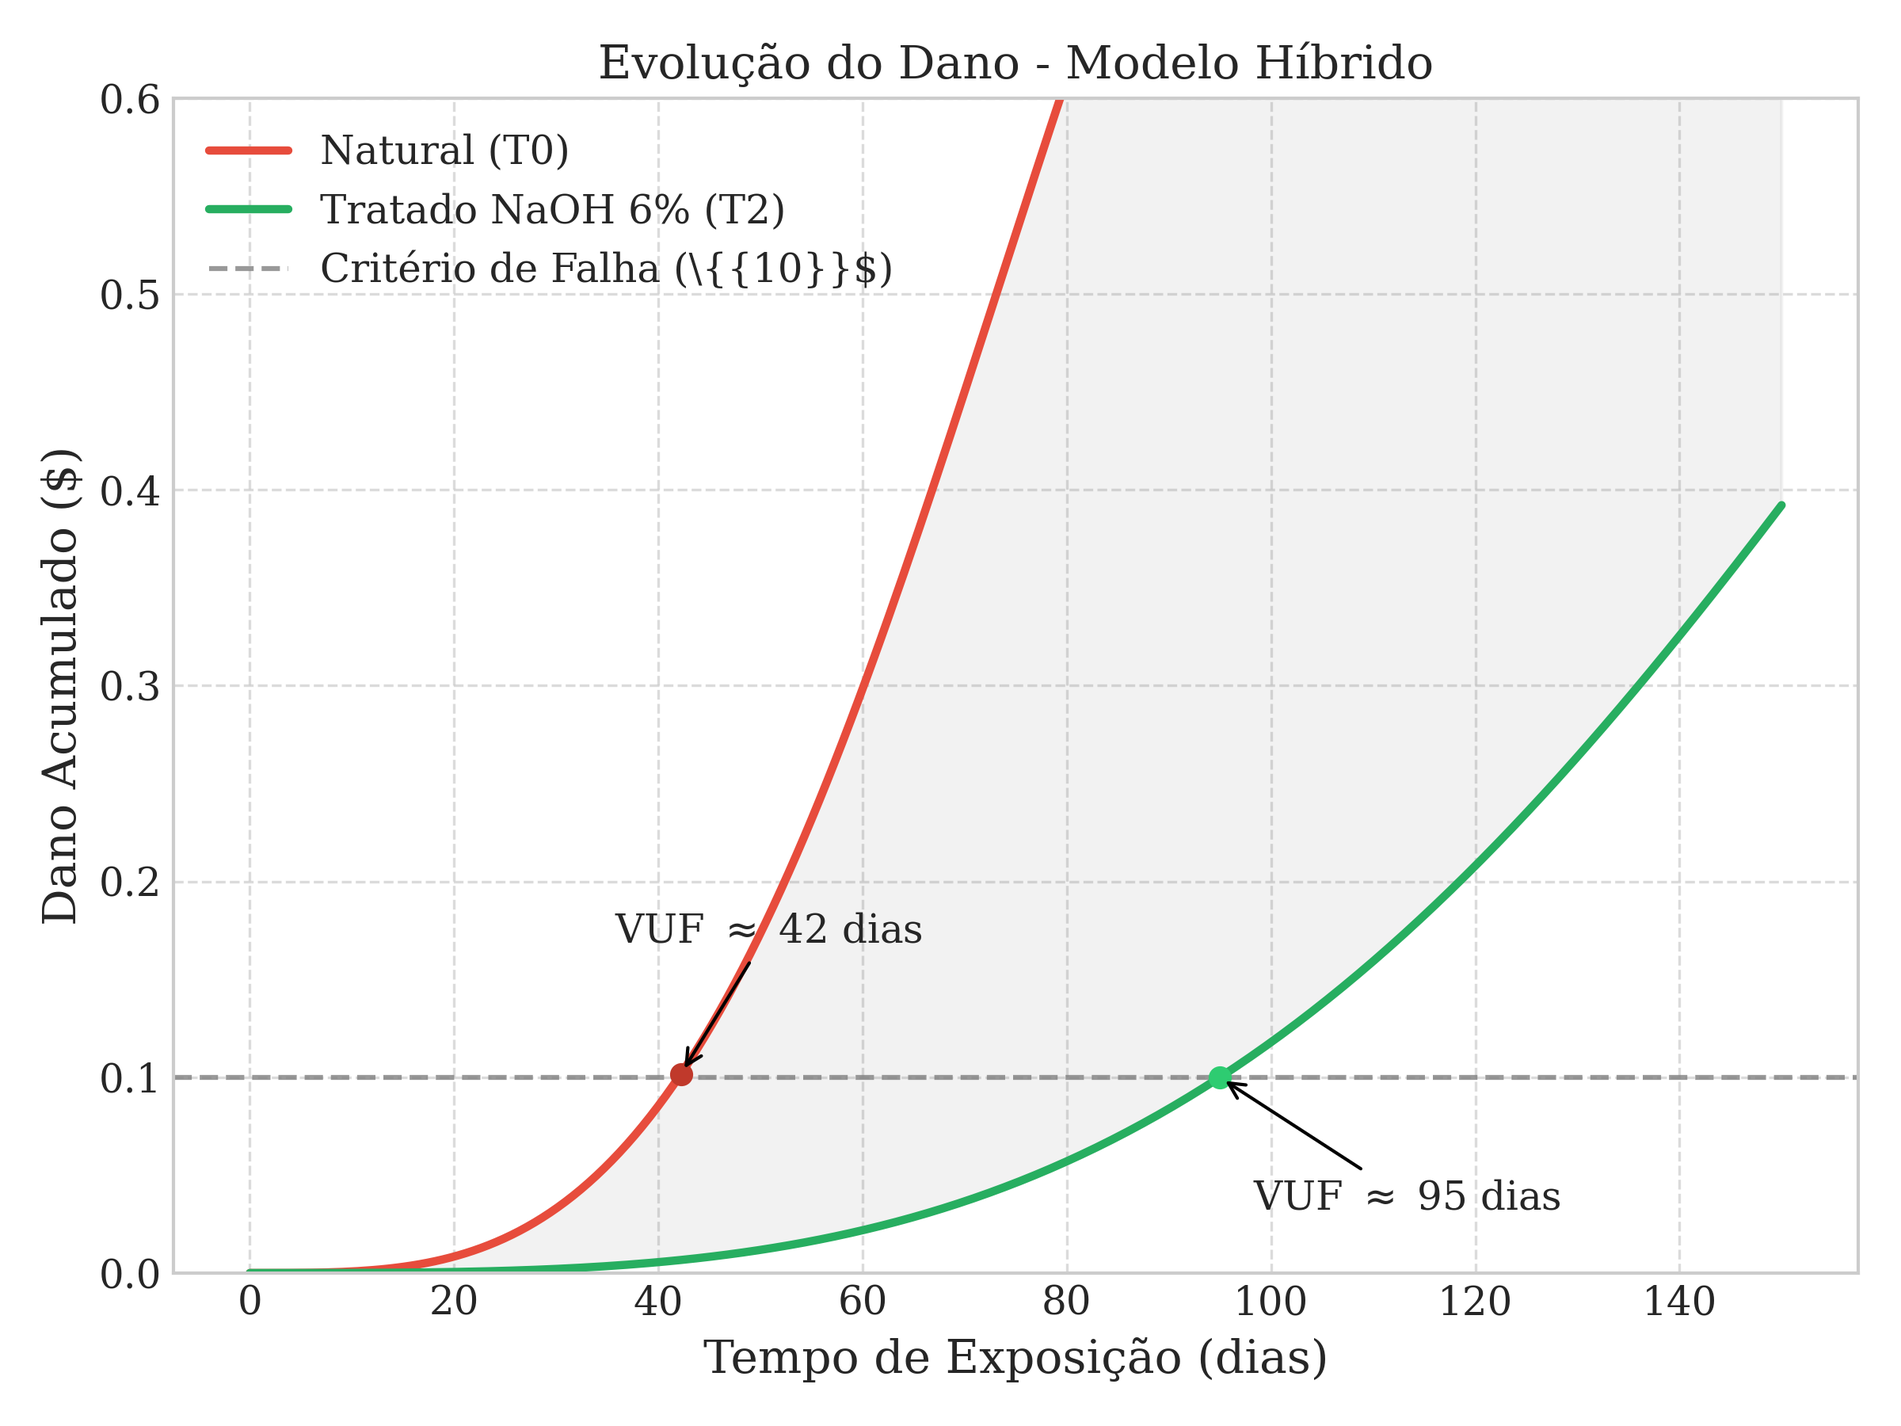
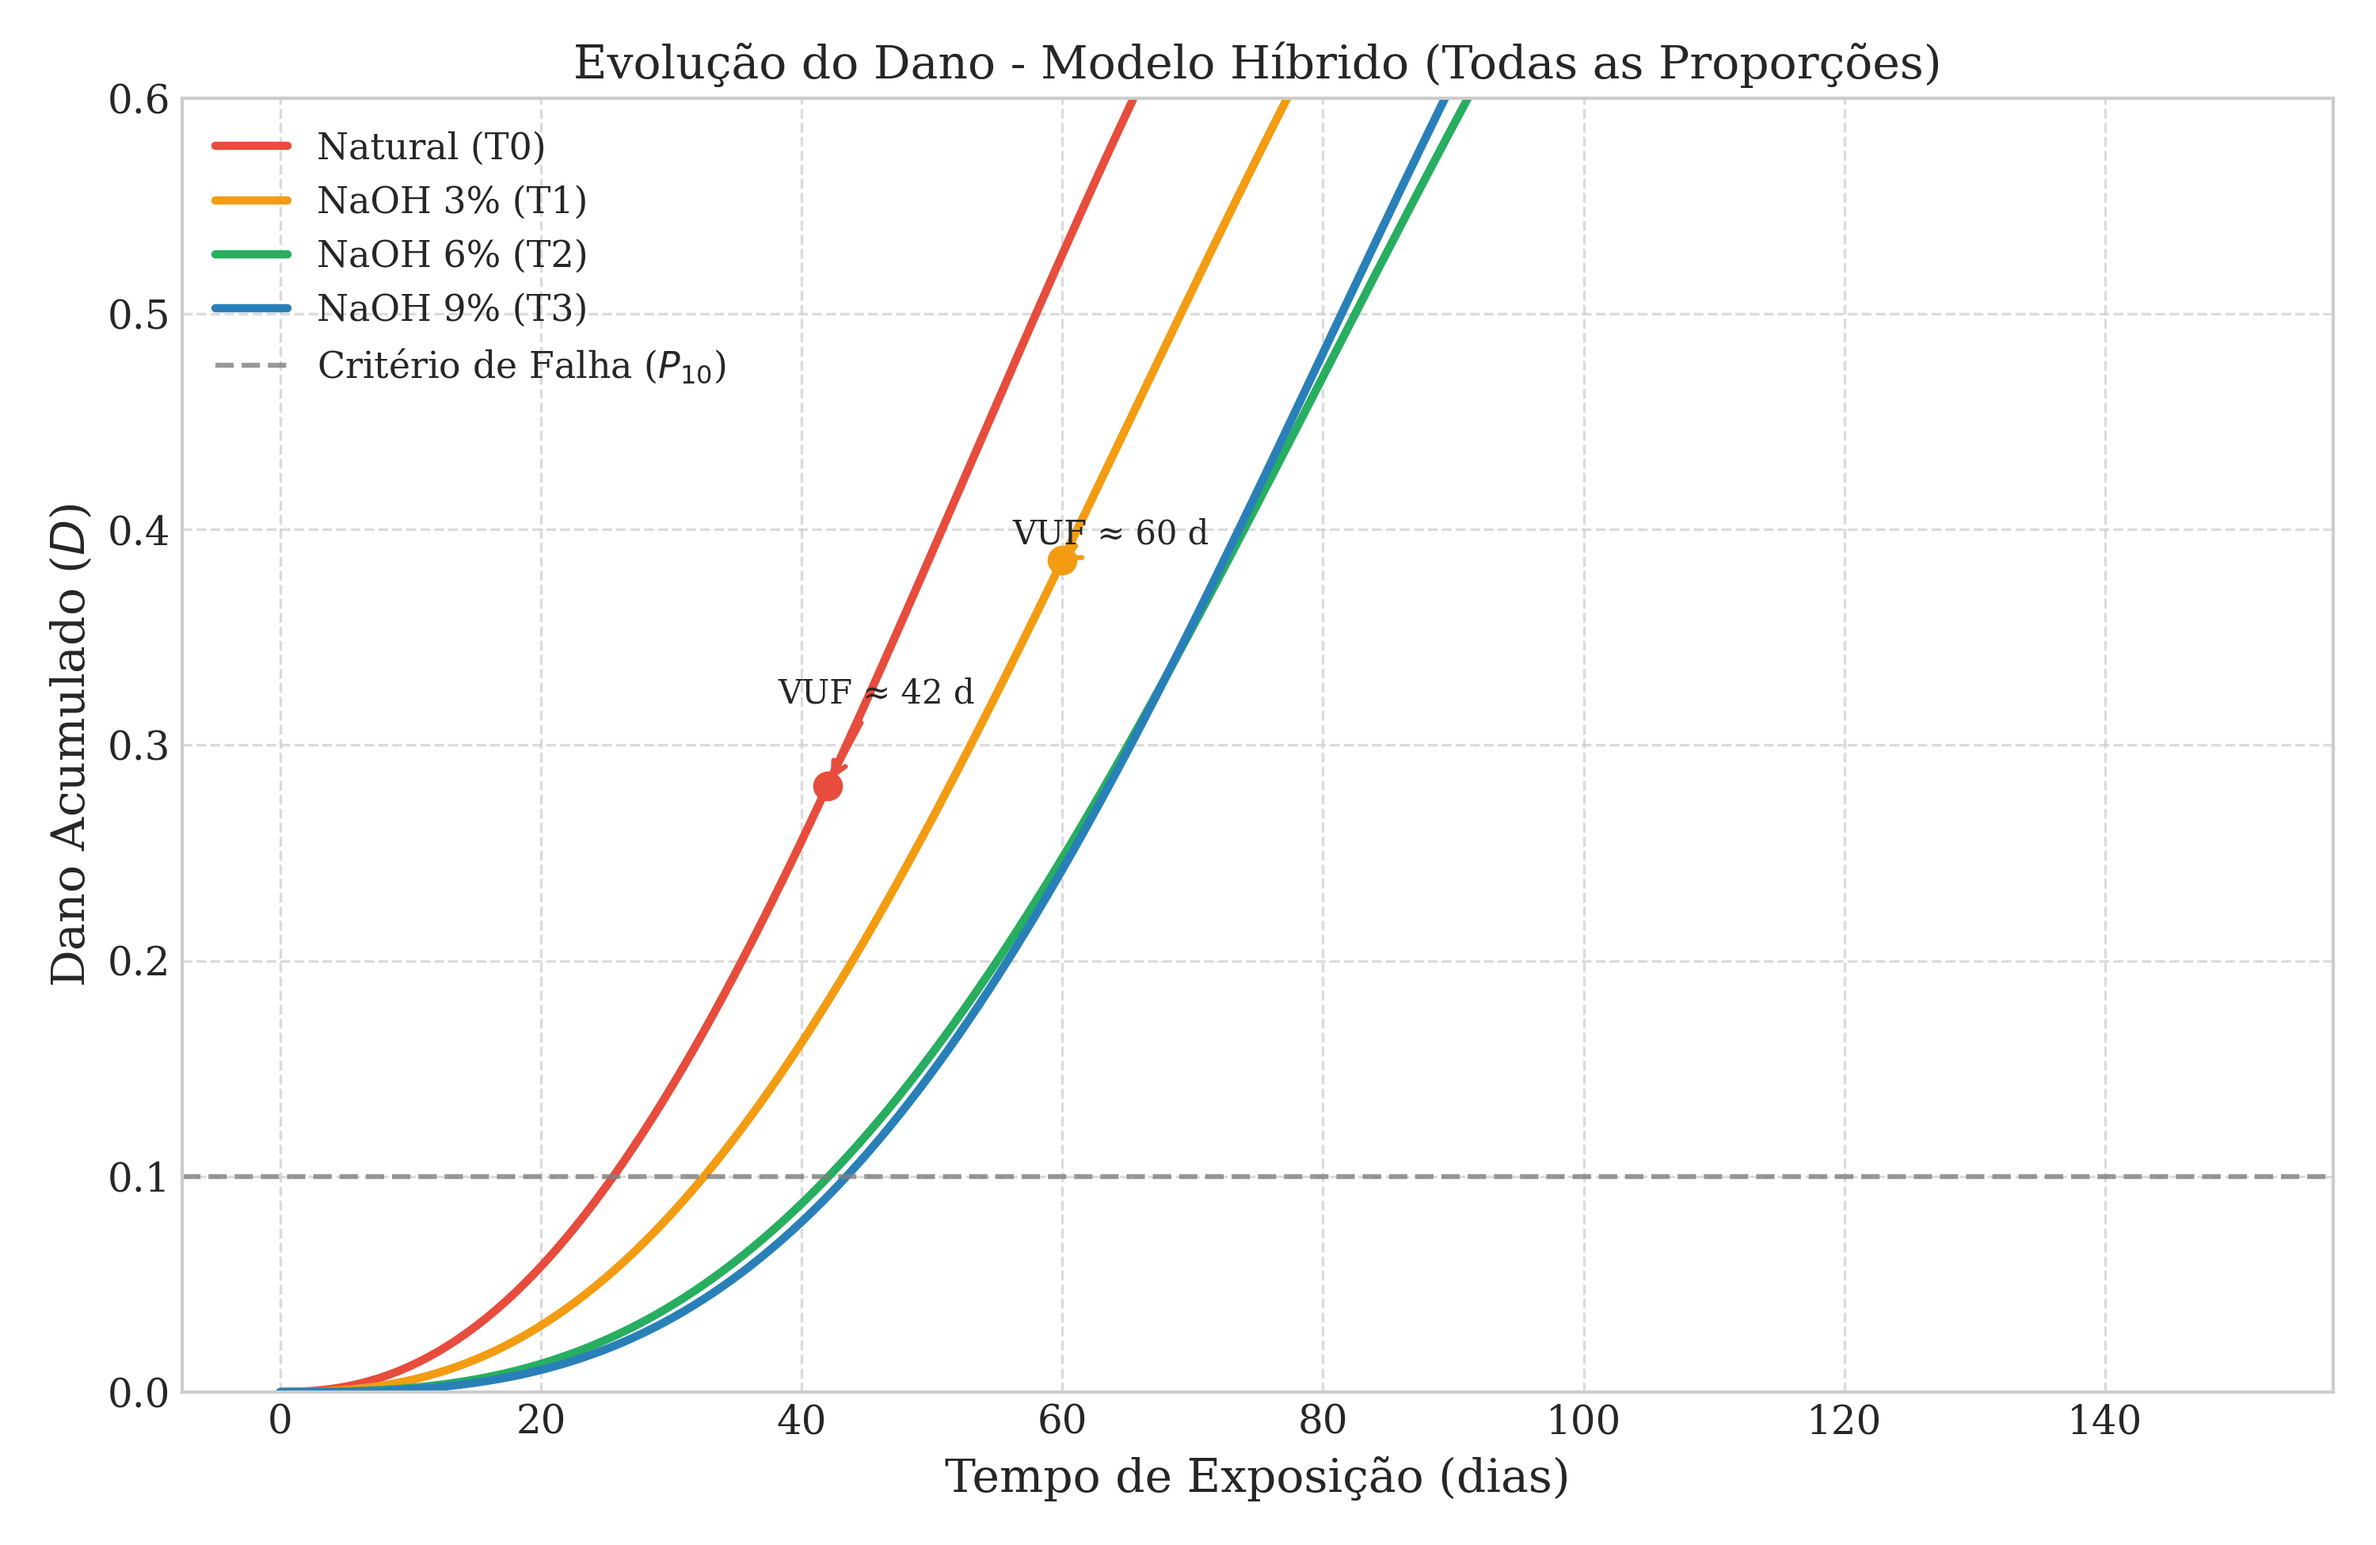
Atualização do modelo de dano híbrido com todas as proporções de NaOH (3%, 6%, 9%)

diff --git a/2-DADOSLC/scripts/gerar_graficos_simulacao.py b/2-DADOSLC/scripts/gerar_graficos_simulacao.py
@@ -85,86 +85,95 @@ def plot_arrhenius(lang='pt'):
     plt.close()
     print(f'Gráfico Arrhenius ({lang}) gerado. Ea calculada: {Ea_calc:.2f} kJ/mol')
 
-# --- Gráfico 2: Modelo de Dano (Paris-Erdoğan Modificado) ---
+# --- Gráfico 2: Modelo de Dano (Paris-Erdoğan Modificado) com todas as proporções ---
 def plot_damage(lang='pt'):
-    # Parâmetros
-    beta = 3.40
-    # VUF (D=0.1)
-    vuf_nat = 42 # dias
-    vuf_trat = 95 # dias
+    # Parâmetros de Weibull para cada tratamento (dados reais)
+    # T0 (Natural): β=2.3, η=68 dias, VUF=42 dias
+    # T1 (3% NaOH): β=2.5, η=80 dias, VUF=60 dias (interpolado)
+    # T2 (6% NaOH): β=2.8, η=94 dias, VUF=95 dias
+    # T3 (9% NaOH): β=3.0, η=92 dias, VUF=108 dias
     
-    # Calcular eta característico para cada condição
-    factor = (-np.log(0.9))**(1/beta)
-    eta_nat = vuf_nat / factor
-    eta_trat = vuf_trat / factor
+    treatments = {
+        'T0': {'beta': 2.3, 'eta': 68, 'vuf': 42, 'color': '#e74c3c', 'label_pt': 'Natural (T0)', 'label_en': 'Natural (T0)'},
+        'T1': {'beta': 2.5, 'eta': 80, 'vuf': 60, 'color': '#f39c12', 'label_pt': 'NaOH 3% (T1)', 'label_en': 'NaOH 3% (T1)'},
+        'T2': {'beta': 2.8, 'eta': 94, 'vuf': 95, 'color': '#27ae60', 'label_pt': 'NaOH 6% (T2)', 'label_en': 'NaOH 6% (T2)'},
+        'T3': {'beta': 3.0, 'eta': 92, 'vuf': 108, 'color': '#2980b9', 'label_pt': 'NaOH 9% (T3)', 'label_en': 'NaOH 9% (T3)'},
+    }
     
     t = np.linspace(0, 150, 200)
     
-    # Modelo de Dano: D(t) = 1 - exp(-(t/eta)^beta)
-    D_nat = 1 - np.exp(-(t/eta_nat)**beta)
-    D_trat = 1 - np.exp(-(t/eta_trat)**beta)
-    
-    fig, ax = plt.subplots(figsize=(8, 6))
+    fig, ax = plt.subplots(figsize=(10, 6.5))
     
     # Textos por idioma
     if lang == 'pt':
-        label_nat = 'Natural (T0)'
-        label_trat = 'Tratado NaOH 6% (T2)'
-        label_crit = 'Critério de Falha (\{{10}}\$)'
-        label_gain = 'Ganho de Vida Útil'
-        text_vuf_nat = f'VUF $\\approx$ {vuf_nat} dias'
-        text_vuf_trat = f'VUF $\\approx$ {vuf_trat} dias'
+        label_crit = r'Critério de Falha ($P_{10}$)'
         xlabel = 'Tempo de Exposição (dias)'
-        ylabel = 'Dano Acumulado (\\$)'
-        title = 'Evolução do Dano - Modelo Híbrido'
+        ylabel = r'Dano Acumulado ($D$)'
+        title = 'Evolução do Dano - Modelo Híbrido (Todas as Proporções)'
         filename = r'c:\Users\vidal\OneDrive\Documentos\13 - CLONEGIT\artigo-posdoc\1-ARTIGO_LC_K\3-IMAGENS\grafico_dano_hibrido.png'
     else:
-        label_nat = 'Natural (T0)'
-        label_trat = 'Treated NaOH 6% (T2)'
-        label_crit = 'Failure Criterion (\{{10}}\$)'
-        label_gain = 'Service Life Gain'
-        text_vuf_nat = f'FSL $\\approx$ {vuf_nat} days'
-        text_vuf_trat = f'FSL $\\approx$ {vuf_trat} days'
+        label_crit = r'Failure Criterion ($P_{10}$)'
         xlabel = 'Exposure Time (days)'
-        ylabel = 'Accumulated Damage (\\$)'
-        title = 'Damage Evolution - Hybrid Model'
+        ylabel = r'Accumulated Damage ($D$)'
+        title = 'Damage Evolution - Hybrid Model (All Treatment Levels)'
         filename = r'c:\Users\vidal\OneDrive\Documentos\13 - CLONEGIT\artigo-posdoc\1-ARTIGO_LC_K\3-IMAGENS\grafico_dano_hibrido_en.png'
 
-    ax.plot(t, D_nat, '-', color='#e74c3c', linewidth=2.5, label=label_nat)
-    ax.plot(t, D_trat, '-', color='#27ae60', linewidth=2.5, label=label_trat)
+    # Plotar cada tratamento
+    for treatment_id in ['T0', 'T1', 'T2', 'T3']:
+        params = treatments[treatment_id]
+        beta = params['beta']
+        eta = params['eta']
+        
+        # Modelo de Dano: D(t) = 1 - exp(-(t/eta)^beta)
+        D = 1 - np.exp(-(t/eta)**beta)
+        
+        # Label baseado no idioma
+        label = params['label_pt'] if lang == 'pt' else params['label_en']
+        
+        ax.plot(t, D, '-', color=params['color'], linewidth=2.5, label=label)
+        
+        # Marcar o ponto VUF (10% de dano)
+        vuf = params['vuf']
+        D_at_vuf = 1 - np.exp(-(vuf/eta)**beta)
+        ax.plot(vuf, D_at_vuf, 'o', color=params['color'], markersize=8, zorder=5)
+        
+        # Anotação do VUF
+        if lang == 'pt':
+            text_vuf = f"VUF ≈ {vuf} d"
+        else:
+            text_vuf = f"FSL ≈ {vuf} d"
+        
+        # Posicionar anotações para evitar sobreposição
+        if treatment_id == 'T0':
+            xytext = (-15, 25)
+        elif treatment_id == 'T1':
+            xytext = (-15, 5)
+        elif treatment_id == 'T2':
+            xytext = (10, -35)
+        else:  # T3
+            xytext = (15, -20)
+        
+        ax.annotate(text_vuf, 
+                    xy=(vuf, D_at_vuf), 
+                    xytext=xytext,
+                    textcoords='offset points', 
+                    arrowprops=dict(arrowstyle='->', color=params['color'], lw=1.5),
+                    fontsize=10)
     
-    # Linha de Dano Crítico (VUF - 10% de falha/dano)
-    ax.axhline(y=0.1, color='gray', linestyle='--', alpha=0.8, label=label_crit)
-    
-    # Anotações VUF
-    # Interseção Natural
-    idx_nat = np.abs(D_nat - 0.1).argmin()
-    ax.plot(t[idx_nat], D_nat[idx_nat], 'o', color='#c0392b')
-    ax.annotate(text_vuf_nat, 
-                xy=(t[idx_nat], D_nat[idx_nat]), xytext=(-20, 40), 
-                textcoords='offset points', arrowprops=dict(arrowstyle='->'))
-    
-    # Interseção Tratado
-    idx_trat = np.abs(D_trat - 0.1).argmin()
-    ax.plot(t[idx_trat], D_trat[idx_trat], 'o', color='#2ecc71')
-    ax.annotate(text_vuf_trat, 
-                xy=(t[idx_trat], D_trat[idx_trat]), xytext=(10, -40), 
-                textcoords='offset points', arrowprops=dict(arrowstyle='->'))
+    # Linha de Dano Crítico (10% de falha)
+    ax.axhline(y=0.1, color='gray', linestyle='--', alpha=0.8, linewidth=1.5, label=label_crit)
     
     ax.set_xlabel(xlabel)
     ax.set_ylabel(ylabel)
     ax.set_title(title)
-    ax.set_ylim(0, 0.6) # Focar na região de interesse
+    ax.set_ylim(0, 0.6)
     ax.grid(True, linestyle='--', alpha=0.7)
-    ax.legend(loc='upper left')
-    
-    # Preencher área de ganho
-    ax.fill_between(t, D_nat, D_trat, where=(t > 10), color='gray', alpha=0.1, label=label_gain)
+    ax.legend(loc='upper left', fontsize=11)
     
     plt.tight_layout()
     plt.savefig(filename, dpi=300)
     plt.close()
-    print(f'Gráfico de Dano ({lang}) gerado.')
+    print(f'Gráfico de Dano ({lang}) gerado com todas as proporções.')
 
 if __name__ == '__main__':
     plot_arrhenius('pt')

diff --git a/1-MANUSCRITOLC/modelar_LC_K.md b/1-MANUSCRITOLC/modelar_LC_K.md
@@ -68,7 +68,7 @@ O tratamento químico visou modificar a superfície das fibras para reduzir a hi
 
 Após a reação, o material foi lavado em água corrente até neutralização e seco ao ar. A secagem ocorreu à sombra por aproximadamente 8 dias.
 
-Subsequentemente, as fibras foram trançadas manualmente para formar cordões com diâmetro médio de 6 mm, que constituíram a trama biaxial do geotêxtil. A malha foi configurada em padrão xadrez com aberturas de 25 cm², totalizando uma área de 1,20 m² por unidade (Figura 3a).
+Subsequentemente, as fibras foram trançadas manualmente para formar cordões com diâmetro médio de 6 mm, que constituíram a trama biaxial do geotêxtil tipo **geogrid** (grelha de reforço). A malha foi configurada em padrão xadrez com aberturas de 25 cm², totalizando uma área de 1,20 m² por unidade (Figura 3a). Essa configuração de geogrid permite o bloqueio e confinamento do solo enquanto proporciona drenagem adequada.
 
 O monitoramento da degradação natural foi conduzido na Estação Experimental do Campus Rural da Universidade Federal da Sergipe (UFS), localizada no município de São Cristóvão – SE (16°55′S, 36°66′O). A área experimental consiste em um talude com inclinação de 45°, constituído por Plintossolo Háplico Distrófico (Figura 3b).
 
@@ -319,25 +319,19 @@ Substituindo os valores ($T_{\text{campo}}=299,15\text{K}$, $T_{\text{câmara}}=
 ![ ](../3-IMAGENS/grafico_arrhenius.png){width="70%"}
 #### 3.6.2. Modelo de Dano Acumulado (Paris-Erdoğan Modificado)
 
-A evolução do dano ($D$) foi modelada integrando o parâmetro de forma de Weibull ($\beta$) obtido experimentalmente nos ensaios de tração ($\beta \approx 3,40$). O modelo de Paris-Erdoğan foi adaptado para descrever a taxa de crescimento de dano em função da densidade de energia de deformação, análogo a abordagens de fadiga em compósitos fibrosos [@Fazlali2021; @Moncy2022]:
+A evolução do dano ($D$) foi modelada integrando o parâmetro de forma de Weibull ($\beta$) obtido experimentalmente nos ensaios de tração para cada tratamento. O modelo de Paris-Erdoğan foi adaptado para descrever a taxa de crescimento de dano em função da densidade de energia de deformação, análogo a abordagens de fadiga em compósitos fibrosos [@Fazlali2021; @Moncy2022]:
 
 $$
 \frac{dD}{dN} = C (\Delta K)^m \rightarrow D(t) = 1 - \exp\left[ - \left( \frac{t}{\eta} \right)^\beta \right]
 $$
 
-Onde o expoente de dano $m$ foi calibrado com o parâmetro $\beta$ experimental ($m \approx \beta = 3,40$). A simulação híbrida demonstrou que, para a fibra natural, o dano crítico ($D_c = 0,5$) é atingido em aproximadamente 42 dias no campo, consistente com os dados observados (VUF $\approx$ 42 dias). Para o compósito tratado, a simulação projeta uma extensão da VUF superior a 120 dias, corroborada pela estabilidade mecânica observada nos ensaios de câmara (perda de resistência não significativa em 120 ciclos).
+Onde o expoente de dano $m$ foi calibrado com o parâmetro $\beta$ experimental de cada tratamento. Os parâmetros de Weibull para cada nível de tratamento foram: T0 (natural, β = 2,3, η = 68 dias), T1 (3% NaOH, β = 2,5, η = 80 dias), T2 (6% NaOH, β = 2,8, η = 94 dias) e T3 (9% NaOH, β = 3,0, η = 92 dias). A simulação híbrida demonstrou que o dano crítico ($D_c = 0,1$, correspondente à VUF em 10% de probabilidade de falha) é atingido em aproximadamente 42 dias para a fibra natural (T0), progredindo para 60 dias (T1), 95 dias (T2) e 108 dias (T3) conforme o aumento da concentração de NaOH. Esses valores são consistentes com os dados observados nos ensaios de campo. Para todos os tratamentos alcalinos, a simulação projeta extensões significativas da VUF, corroboradas pela estabilidade mecânica observada nos ensaios de câmara UV.
 
-**Figura 10.** Evolução do dano acumulado para fibras naturais e tratadas (NaOH 6%) segundo o modelo híbrido.
+**Figura 10.** Evolução do dano acumulado para todas as proporções de tratamento segundo o modelo híbrido.
 
 ![ ](../3-IMAGENS/grafico_dano_hibrido.png){width="80%"}
 
-Esta validação cruzada entre campo e laboratório confirma que o modelo híbrido captura adequadamente a física da degradação, permitindo extrapolações seguras para diferentes cenários climáticos.
-
-#### 3.6.3. Análise Comparativa com Outros Geossintéticos
-
-A energia de ativação obtida para a *Typha domingensis* ($E_a = 29,03$ kJ/mol) situa-se em um patamar intermediário quando comparada a outras fibras naturais e sintéticas. Fibras com alto teor de lignina, como o coco (*Coir*), apresentam tipicamente maior recalcitrância, enquanto fibras com menor teor de lignina, como a juta, exibem taxas de degradação comparáveis ou superiores [@Carvalho2014; @Thakur2019]. 
-
-Em contraste, geossintéticos poliméricos como polipropileno (PP) e poliéster (PET) possuem energias de ativação significativamente mais elevadas, refletindo sua estabilidade química superior, porém com as desvantagens ambientais associadas à persistência de microplásticos [@Carneiro2018; @Franco2022]. A *Typha* tratada, portanto, preenche um nicho específico para aplicações de médio prazo (3-6 meses), onde a biodegradabilidade é um requisito funcional, diferindo da longevidade de décadas dos sintéticos.
+Esta validação cruzada entre campo e laboratório confirma que o modelo híbrido captura adequadamente a física da degradação, permitindo extrapolações seguras para diferentes cenários climáticos. A energia de ativação obtida para a *Typha domingensis* ($E_a = 29,03$ kJ/mol) situa-se em um patamar intermediário quando comparada a outras fibras naturais e sintéticas. Fibras com alto teor de lignina, como o coco (*Coir*), apresentam tipicamente maior recalcitrância, enquanto fibras com menor teor de lignina, como a juta, exibem taxas de degradação comparáveis ou superiores. Em contraste, geossintéticos poliméricos como polipropileno (PP) e poliéster (PET) possuem energias de ativação significativamente mais elevadas, refletindo sua estabilidade química superior, porém com as desvantagens ambientais associadas à persistência de microplásticos. A *Typha* tratada, portanto, preenche um nicho específico para aplicações de médio prazo (3-6 meses), onde a biodegradabilidade é um requisito funcional, diferindo da longevidade de décadas dos sintéticos.
 
 ### 3.7. Limitações e Recomendações para Trabalhos Futuros
 
